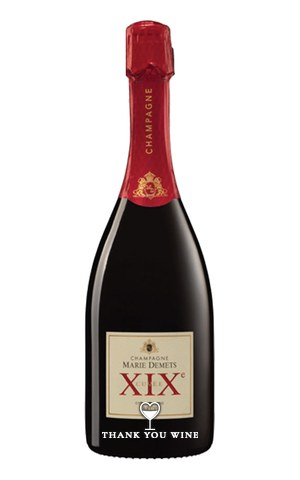
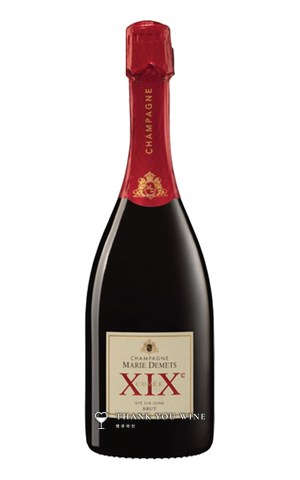
병 사진 로고: 원래 땡큐와인 로고 모양 그대로 색만 흰색으로(도하)
Claude-Session: https://claude.ai/code/session_012cU88TskmTd7Di4gHVmdyx

Changed region(s): [[0.3, 0.8125, 0.69, 0.9375]]

diff --git a/tools/bottle_img.py b/tools/bottle_img.py
@@ -6,20 +6,11 @@ from PIL import Image,ImageChops
 HERE=os.path.dirname(os.path.abspath(__file__)); ROOT=os.path.dirname(HERE)
 W,H=300,480
 def stamp(w):
-    """땡큐와인 로고 마스크: 하트 와인잔(꼭 들어감, 도하 11/25) 위 + THANK YOU WINE 아래, 폭 w."""
-    from PIL import ImageFilter
+    """원래 땡큐와인 로고(assets/logo-wide.png, 하트 와인잔+THANK YOU WINE+땡큐와인)의 모양·배치 그대로, 색만 흰색으로(도하 11/25 "색만 바꿔"). 반환 L 마스크."""
     lg=Image.open(os.path.join(ROOT,'assets/logo-wide.png')).convert('L')
-    def mask(box,boost):
-        m=ImageChops.invert(lg.crop(box)).point(lambda v:min(255,v*boost))
-        return m.crop(m.point(lambda v:255 if v>30 else 0).getbbox())
-    heart=mask((110,80,260,260),3)
-    text=mask((290,100,1100,175),3).filter(ImageFilter.MaxFilter(5))
-    tw=w; text=text.resize((tw,max(1,int(text.height*tw/text.width))),Image.LANCZOS)
-    hh=int(w*0.30); heart=heart.resize((max(1,int(heart.width*hh/heart.height)),hh),Image.LANCZOS)
-    gap=max(2,w//40)
-    m=Image.new('L',(w,hh+gap+text.height),0)
-    m.paste(heart,((w-heart.width)//2,0)); m.paste(text,(0,hh+gap))
-    return m
+    m=ImageChops.invert(lg)
+    m=m.crop(m.point(lambda v:255 if v>10 else 0).getbbox()).point(lambda v:min(255,v*2))
+    return m.resize((w,max(1,int(m.height*w/m.width))),Image.LANCZOS)
 def make(src,ko,erase=None):
     im=Image.open(src).convert('RGBA')
     a=im.split()[3]
@@ -37,8 +28,8 @@ def make(src,ko,erase=None):
     # 로고를 병 아래쪽 유리 위에 얹음(흰 글자+옅은 그림자, 밝은 병에서도 보이게)
     from PIL import ImageFilter
     bx=(W-b.width)//2; by=H-b.height-20
-    m=stamp(max(70,min(int(b.width*0.74),140)))
-    # 병 몸통 아래쪽(병 높이 91% 지점)에 흰 로고+어두운 테두리: 어느 병·라벨 위에서도 보이고 잘라내기 어렵게
+    m=stamp(max(80,min(int(b.width*0.84),160)))
+    # 병 몸통 아래쪽(병 높이 91% 지점)에 흰 로고+어두운 테두리: 어느 병·라벨 위에서도 보이고 잘라내기 어렵게(도용 방지)
     x=(W-m.width)//2; y=by+int(b.height*0.91)-m.height//2
     edge=m.filter(ImageFilter.MaxFilter(3)).filter(ImageFilter.GaussianBlur(0.8)).point(lambda v:int(v*0.7))
     out.paste((25,25,25),(x,y),edge)
